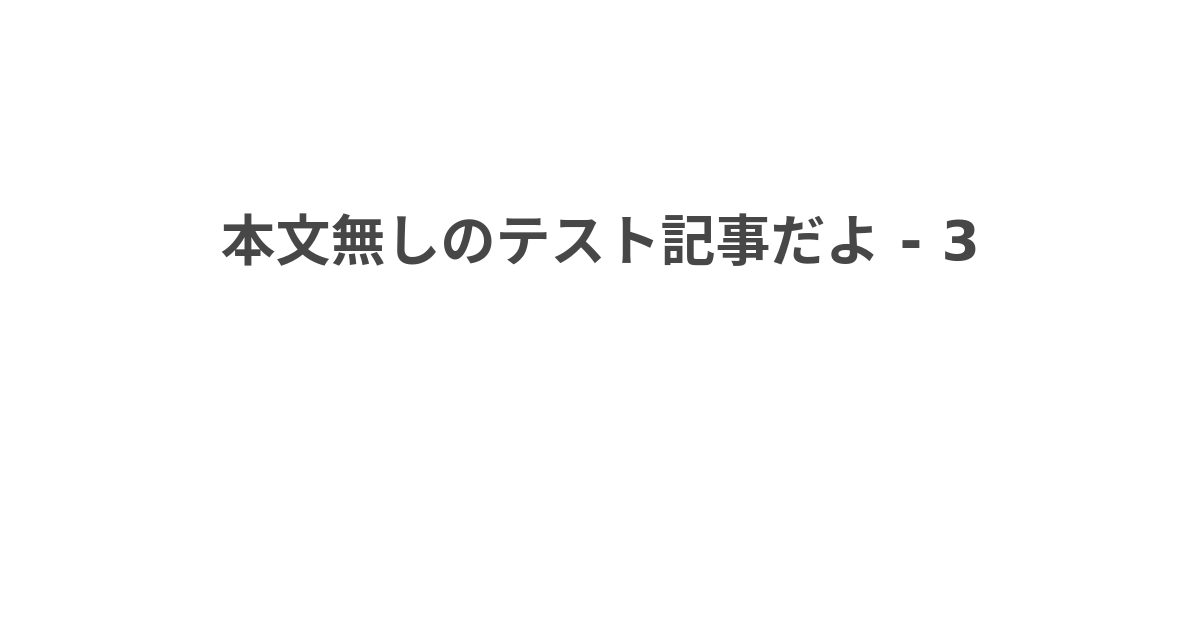
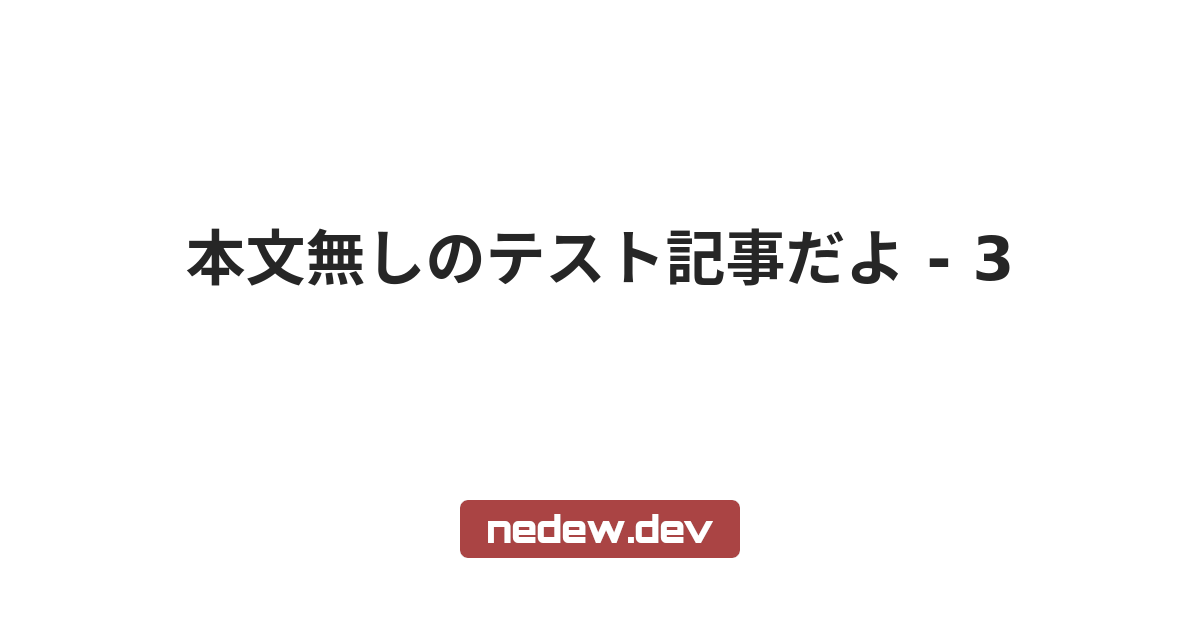
ogp画像のデザイン変更等

Changed region(s): [[0.1542, 0.3317, 0.8633, 0.4524], [0.37, 0.7841, 0.6167, 0.9048]]

diff --git a/styles/_config.scss b/styles/_config.scss
@@ -8,8 +8,8 @@ $wideMarginButtom: .5rem;
 $widePaddingTop: 2.5rem;
 // $widePaddingRight: 40px;
 // $widePaddingLeft: 40px;
-$widePaddingRight: 30px;
-$widePaddingLeft: 30px;
+$widePaddingRight: 25px;
+$widePaddingLeft: 25px;
 $widePaddingBottom: 3rem;
 
 $narrowPaddingTop: 1.8rem;
